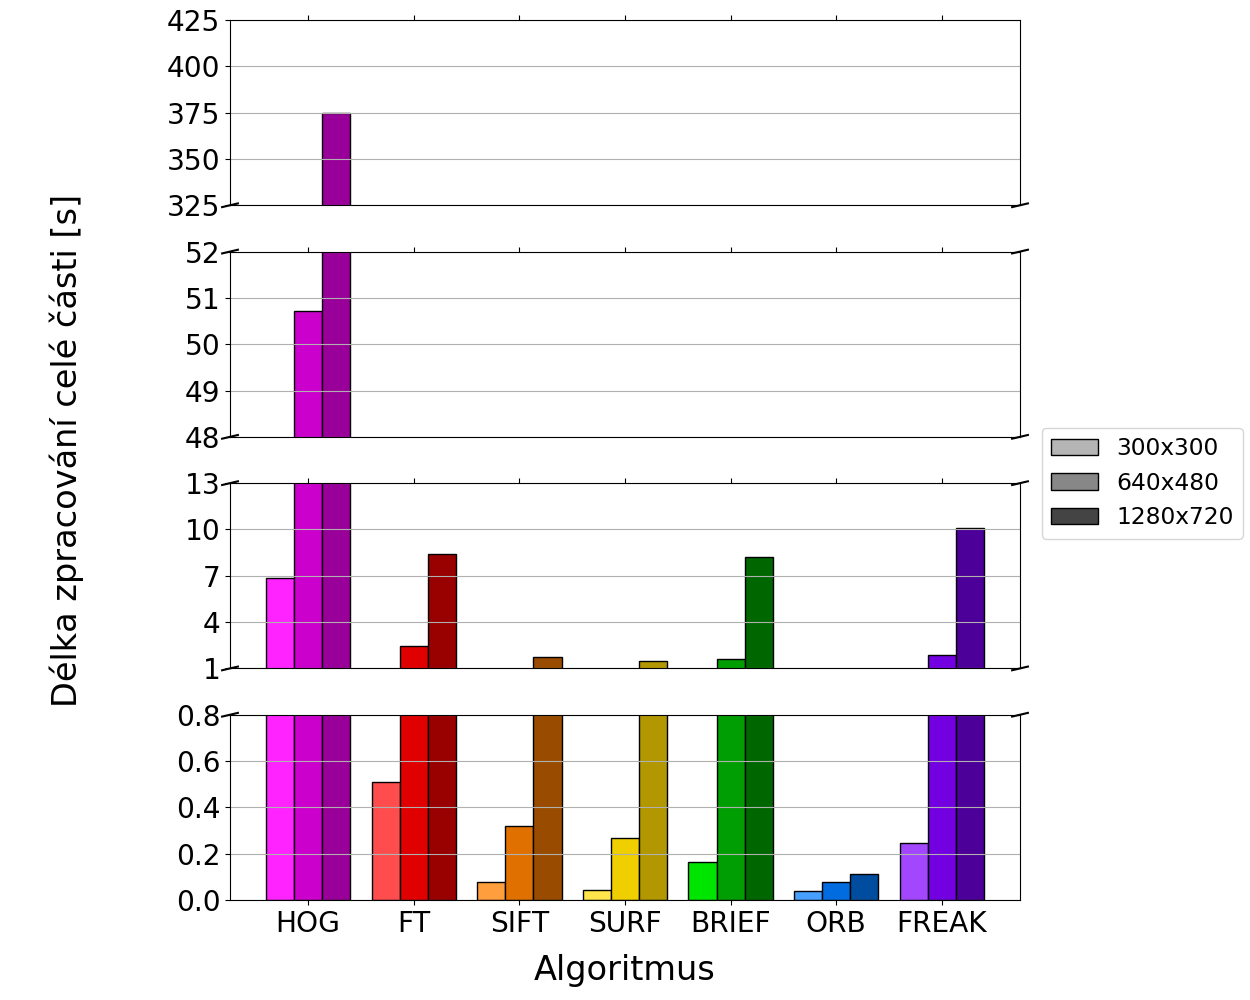
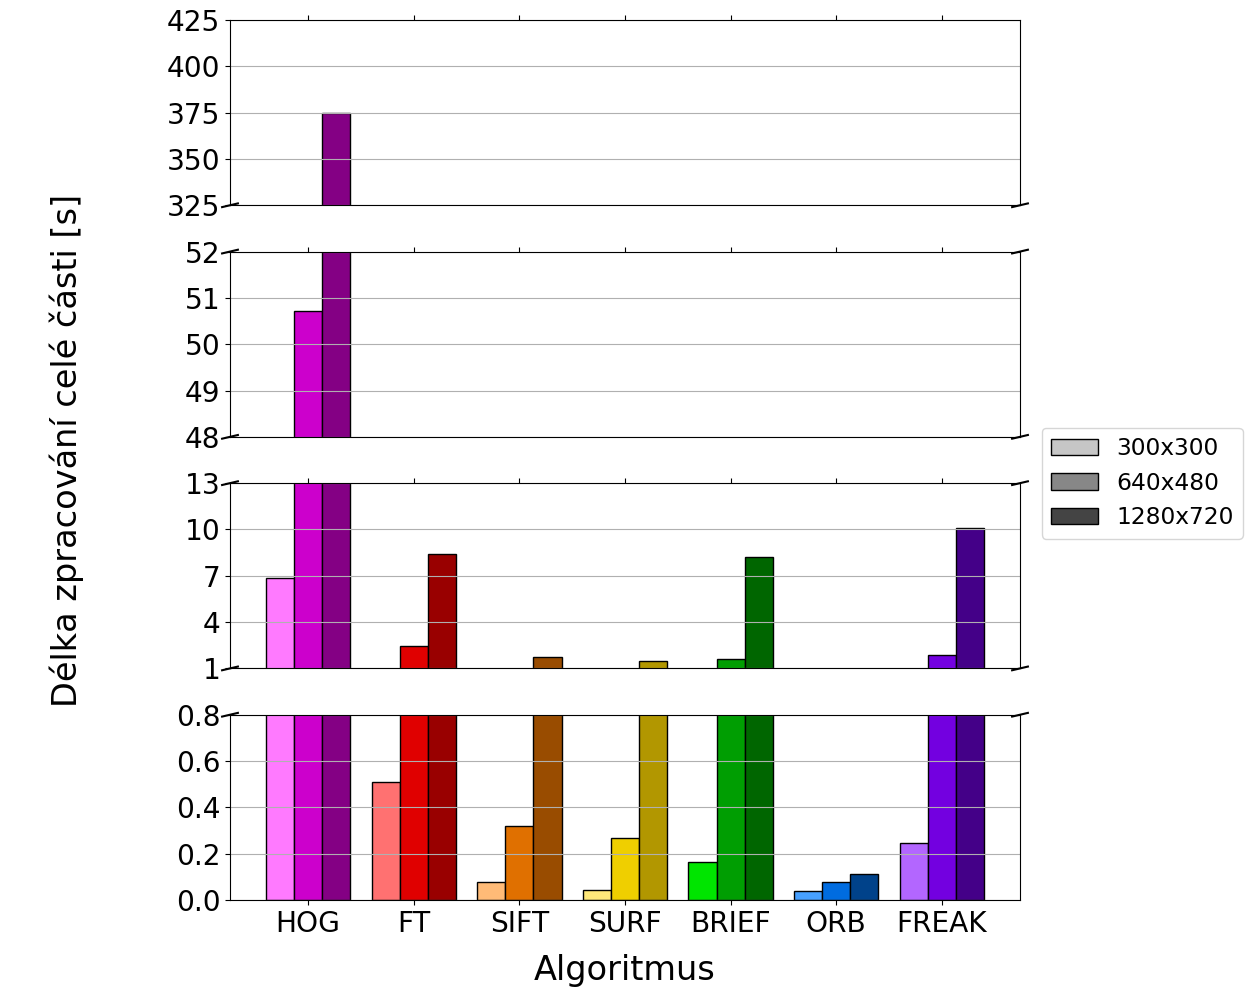
Adjusted colors a little

diff --git a/src/scripts/charts/generateCharts3.py b/src/scripts/charts/generateCharts3.py
@@ -3,7 +3,6 @@ import numpy as np
 import math
 import matplotlib
 import matplotlib.pyplot as plt
-from collections import namedtuple
 from scipy.interpolate import griddata
 from matplotlib.ticker import FuncFormatter
 import matplotlib.patches as patches
@@ -13,13 +12,11 @@ OUTPUT_DIR = "./output/finalQuestionMark"
 # global default font size, font sizes like xx-large are relative to this
 matplotlib.rcParams['font.size'] = 14   # default = 10
 
-Color = namedtuple("Color", "light, normal, dark")
-GRAY = Color(light="#b5b5b5", normal="#878787", dark="#444444")
 # slightly lighter
-COLORS_300x300 = ["#ff23ff", "#ff4c4c", "#ff9e3d", "#ffe44c", "#00e500", "#47a0ff", "#a347ff"]
+COLORS_300x300 = ["#ff7aff", "#ff7171", "#ffbb77", "#ffe87a", "#00e500", "#47a0ff", "#b366ff"]
 COLORS_640x480 = ["#cc00cc", "#e00000", "#e07000", "#efcf00", "#009e02", "#006ce0", "#7300e0"]
 #slightly darker
-COLORS_1280x720 = ["#990099", "#990000", "#994c00", "#b29700", "#006600", "#004c9e", "#4c0099"]
+COLORS_1280x720 = ["#840084", "#990000", "#994c00", "#b29700", "#006600", "#00428a", "#440088"]
 
 PERCENTAGE_FORMATTER = lambda y, _: f"{(100 * y):.0f} %"
 SECOND_THOUSAND_FORMATTER = lambda y, _: math.floor(y / 1000.0)
@@ -35,9 +32,9 @@ DEFAULT_LEGEND = [
     patches.Patch(edgecolor="black", facecolor=COLORS_1280x720[0], label="1280x720")
 ]
 GRAY_LEGEND = [
-    patches.Patch(edgecolor="black", facecolor=GRAY.light, label="300x300"),
-    patches.Patch(edgecolor="black", facecolor=GRAY.normal, label="640x480"),
-    patches.Patch(edgecolor="black", facecolor=GRAY.dark, label="1280x720")
+    patches.Patch(edgecolor="black", facecolor="#c6c6c6", label="300x300"),
+    patches.Patch(edgecolor="black", facecolor="#878787", label="640x480"),
+    patches.Patch(edgecolor="black", facecolor="#444444", label="1280x720")
 ]
 PICTURE_SIZE = (12.5, 10)
 DEFAULT_MARGINS = {
